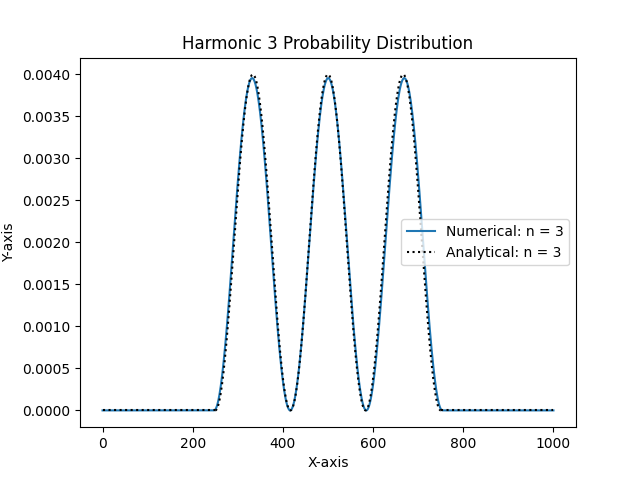
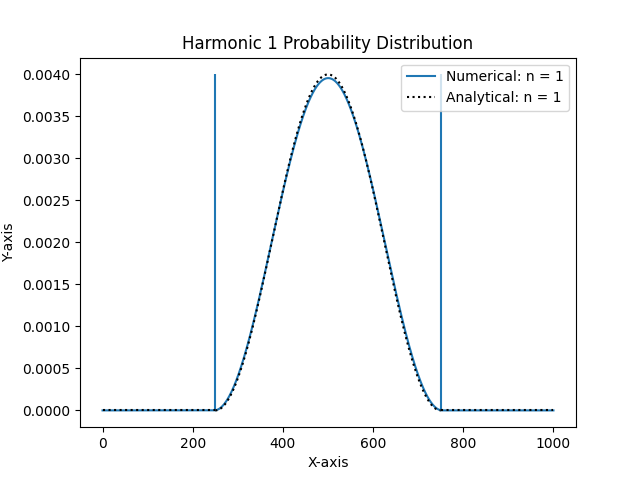
did some work with graphing them separately. am confused :(

Changed region(s): [[0.5312, 0.125, 0.9062, 0.875], [0.3125, 0.1562, 0.5625, 0.875], [0.4062, 0.0625, 0.4375, 0.0938]]

diff --git a/cnub/1D_Schrodinger_numerical_1matrix.py b/cnub/1D_Schrodinger_numerical_1matrix.py
@@ -25,7 +25,7 @@ def Hamiltonians(m, N): # make an all diag(2) off-diag(-1) matrix
         H = np.zeros((N,N))
         for i in range(0, H.shape[0]):
             if i < int(N/4) or i > int(3*N/4):
-                H[i,i] = 100
+                H[i,i] = .1
             else:
                 H[i,i] = 0
 
@@ -50,6 +50,8 @@ def harmonic(n, N):
     x_values = np.linspace(0, N, N)
     
     plt.plot(x_values, psi[n-1]**2, label=f'Numerical: n = {n}') # graphing numerically
+    plt.vlines(250, 0, .004)
+    plt.vlines(750, 0, .004)
 
 
     x1 = np.linspace(0, N/4, int(N/4)) 
@@ -89,4 +91,9 @@ def harmonic(n, N):
     plt.show()
 
 
-harmonic(3, N)
+harmonic(1, N)
+
+# find the decay constant for outside the box
+# mess around more, understand it better
+# expand to 2D or 3D or soemthing? idk just fuck around
+# try 1/r case
